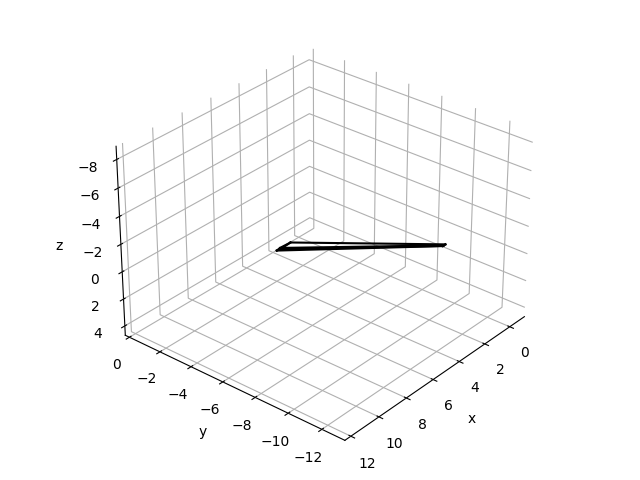
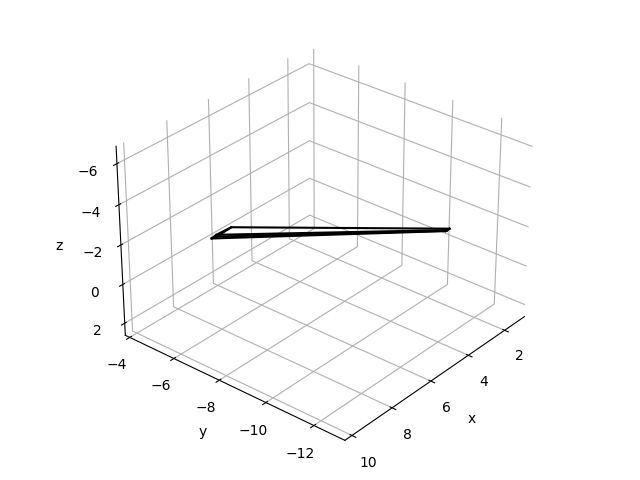
updated visualize function

diff --git a/mmoipy/system.py b/mmoipy/system.py
@@ -771,14 +771,17 @@ class AircraftSystem:
         art = np.block([ [0.*t-h[ 0]/2.], [rr*np.cos(t)], [rr*np.sin(t)] ])
         ftp = np.block([ [0.*t+h[-1]/2.], [rt*np.cos(t)], [rt*np.sin(t)] ])
         atp = np.block([ [0.*t-h[-1]/2.], [rt*np.cos(t)], [rt*np.sin(t)] ])
+
+        draws = [frt,art,ftp,atp] #+ [fht,aht,fhb,ahb]
+
         # lines
-        fht = np.block([ [0.*t+h/2.], [0.*h], [-r] ])
-        aht = np.block([ [0.*t-h/2.], [0.*h], [-r] ])
-        fhb = np.block([ [0.*t+h/2.], [0.*h], [ r] ])
-        ahb = np.block([ [0.*t-h/2.], [0.*h], [ r] ])
+        for i in range(Nb):
+            p = np.deg2rad(i*360./Nb)
+            draws.append( np.block([ [+h/2.], [r*np.sin(p)], [-r*np.cos(p)] ]))
+            draws.append( np.block([ [-h/2.], [r*np.sin(p)], [-r*np.cos(p)] ]))
 
 
-        return [frt,art,ftp,atp,fht,aht,fhb,ahb],None
+        return draws,None
 
 
     def _build_symmetric_airfoil(self,component):
@@ -859,9 +862,9 @@ class AircraftSystem:
         else:
             colors = plt.rcParams['axes.prop_cycle'].by_key()['color']
         collen = len(colors)
-        x_lims = [1.0e+100, 1.0e-100]
-        y_lims = [1.0e+100, 1.0e-100]
-        z_lims = [1.0e+100, 1.0e-100]
+        x_lims = [1.0e+100, -1.0e100]
+        y_lims = [1.0e+100, -1.0e100]
+        z_lims = [1.0e+100, -1.0e100]
         plottable_shapes = [
             "sphere","ellipsoid","half_ellipsoid",
             "cylinder","half_cylinder",
@@ -970,25 +973,25 @@ class AircraftSystem:
         # set axes lengths
 
         # Find out which axis has the widest limits
-        x_diff = x_lims[1]-x_lims[0]
-        y_diff = y_lims[1]-y_lims[0]
-        z_diff = z_lims[1]-z_lims[0]
+        x_diff = x_lims[1] - x_lims[0]
+        y_diff = y_lims[1] - y_lims[0]
+        z_diff = z_lims[1] - z_lims[0]
         max_diff = max([x_diff, y_diff, z_diff])
 
         # Determine the center of each set of axis limits
-        x_cent = x_lims[0]+0.5*x_diff
-        y_cent = y_lims[0]+0.5*y_diff
-        z_cent = z_lims[0]+0.5*z_diff
+        x_cent = x_lims[0] + 0.5*x_diff
+        y_cent = y_lims[0] + 0.5*y_diff
+        z_cent = z_lims[0] + 0.5*z_diff
 
         # Scale the axis limits so they all have the same width as the widest set
-        x_lims[0] = x_cent-0.5*max_diff
-        x_lims[1] = x_cent+0.5*max_diff
+        x_lims[0] = x_cent - 0.5*max_diff
+        x_lims[1] = x_cent + 0.5*max_diff
 
-        y_lims[0] = y_cent-0.5*max_diff
-        y_lims[1] = y_cent+0.5*max_diff
+        y_lims[0] = y_cent - 0.5*max_diff
+        y_lims[1] = y_cent + 0.5*max_diff
 
-        z_lims[0] = z_cent-0.5*max_diff
-        z_lims[1] = z_cent+0.5*max_diff
+        z_lims[0] = z_cent - 0.5*max_diff
+        z_lims[1] = z_cent + 0.5*max_diff
 
         # Set limits so it is a right-handed coordinate system with z pointing down
         ax.set_xlim3d(x_lims[1], x_lims[0])

diff --git a/dev/development.py b/dev/development.py
@@ -26,10 +26,10 @@ if __name__ == "__main__":
     # CRM = mmoi(exampl_directory + "CRM.json")
     # CRM.visualize()
 
-    # test new cylinders
-    ex_2 = mmoi("dev_cylinder_input.json")
-    ex_2.get_mass_properties(report=True,individual=True)
-    # # ex_2.visualize()
+    # # test new cylinders
+    # ex_2 = mmoi("dev_cylinder_input.json")
+    # ex_2.get_mass_properties(report=True,individual=True)
+    # # # ex_2.visualize()
 
     # # test ellipsoid
     # ex_3 = mmoi("dev_ellipsoid_input.json")
@@ -38,7 +38,7 @@ if __name__ == "__main__":
 
     # save plots of objects
     ex_4 = mmoi("dev_input.json")
-    # keys = ex_4.components.keys()
-    # for i in keys:
-    #     ex_4.visualize(no_color=True,plot_ids=[i],
-    #         filename=docs_directory + ex_4.components[i].name + ".png")
+    keys = ex_4.components.keys()
+    for i in keys:
+        ex_4.visualize(no_color=True,plot_ids=[i],
+            filename=docs_directory + ex_4.components[i].name + ".png")
